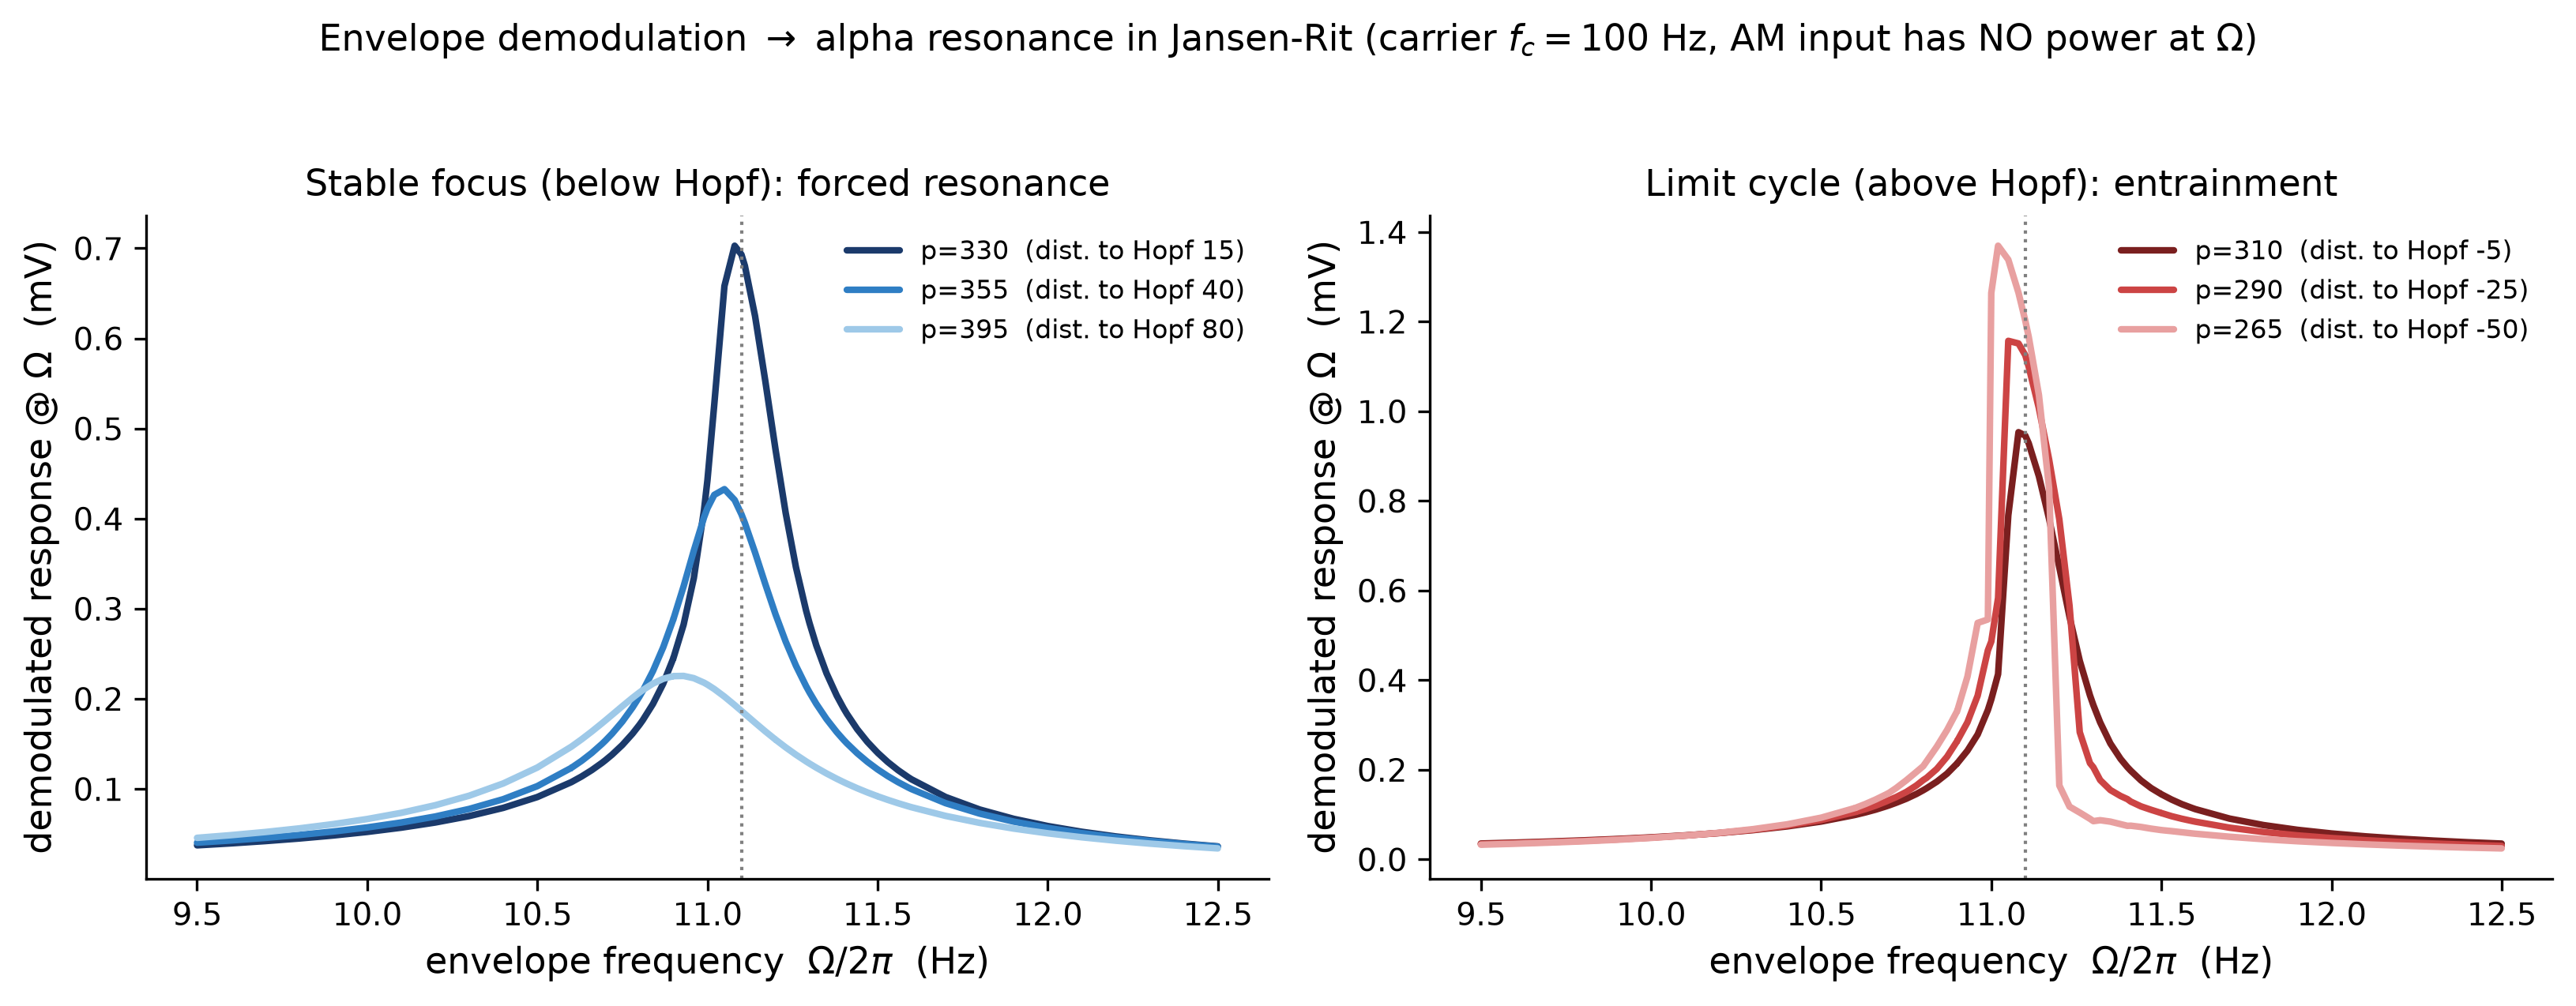
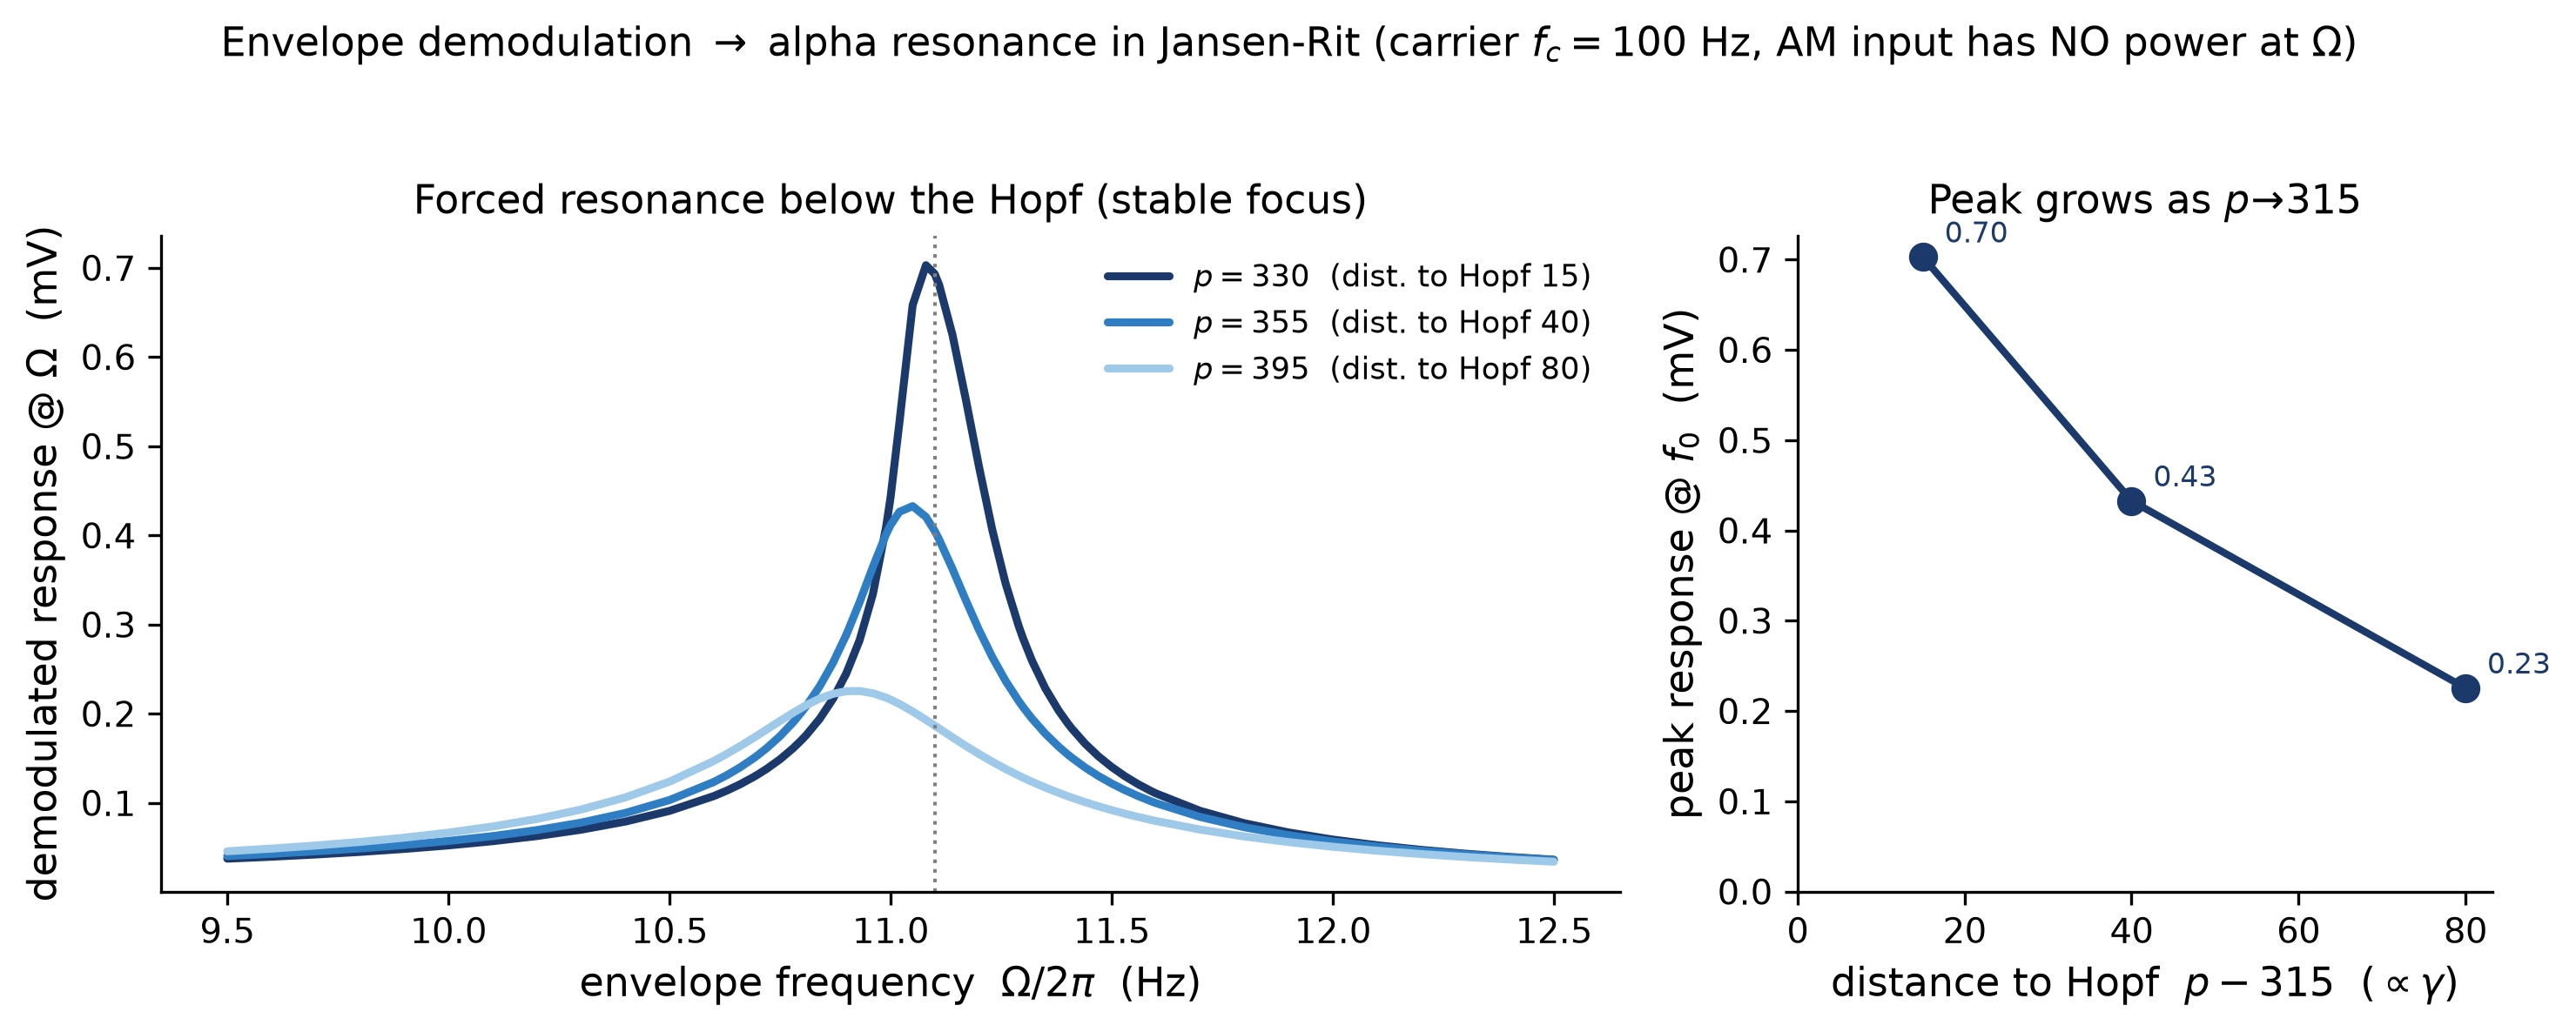
Fig 4 single-regime + Fig 14 intermodulation panel + Landau pass
- Fig 4 (fig:res): drop misleading above-Hopf lock-in panel; single fixed-point
  forced-resonance figure + 1/gamma peak-vs-distance companion. Honest gain story.
- Fig 14 (fig:qif_timing): add panel (b) intermodulation spectrum (TI off/on),
  showing the direct Df line and the f0+Df sum sideband from sigmoid mixing of the
  imposed 42 Hz beat with the intrinsic ~53 Hz gamma. Depth panel -> (c).
- Fig 13 (fig:qif_raster): proper x/y labels + ticks + off/on legend on the beat-fold
  insets; both folds normalized to their mean (relative modulation).
- Text: define "fold" at first use; unify demodulation as the difference-frequency
  intermodulation product (one mixer, cascaded); clarify the negative-Sigma'' regime
  is where the JR resting point sits, not a constraint (mechanism is sign-agnostic).
- DOI added to title block (10.5281/zenodo.20844275).

diff --git a/TN0484_envelope_demodulation.tex b/TN0484_envelope_demodulation.tex
@@ -42,10 +42,10 @@
 a network mechanism for temporal-interference stimulation}\\[10pt]
 \begin{tabular}{@{}ll@{}}
 \textbf{Document:} & TN0484 (Neuroelectrics TN)\,/\,WP0185 (BCOM WP) \\
-\textbf{Author:} & Giulio Ruffini, Borja Mercadal, Raul de Palma, Alex Just, \\ 
-& Ricardo Salvador and Francesca Castaldo \\
+\textbf{Author:} & Giulio Ruffini, Borja Mercadal, and Alex Just \\ 
 \textbf{Affiliation:} & Neuroelectrics\,/\,Starlab\,/\,BCOM \\
 \textbf{Date:} & 2026-06-17 \qquad \textbf{Version:} 0.7 \\
+\textbf{DOI:} & \href{https://doi.org/10.5281/zenodo.20844275}{10.5281/zenodo.20844275} \\
 \end{tabular}\\[4pt]
 {\color{neblue}\rule{\textwidth}{1pt}}
 \end{flushleft}
@@ -346,6 +346,11 @@ so a line appears at exactly the envelope frequency $\Omega$, with amplitude
 In the language of \cite{ruffini2025ham}, the quadratic cross-term
 $\kappa_2\,s_1 s_2$ between a slow and a fast input implements amplitude
 modulation/demodulation and the associated intermodulation lines.
+Demodulation is thus itself an intermodulation product: the line at $\Omega$ is the
+\emph{difference frequency} of the two applied carriers ($\omega_c$ and $\omega_c+\Omega$),
+generated by the same quadratic term that---acting a second time, now on an intrinsic
+rhythm $\omega_0$---produces the $\omega_0\pm\Omega$ sidebands seen at the spiking level
+(Fig.~\ref{fig:qif_timing}b). One nonlinear mixer, applied in cascade.
 Equation~\eqref{eq:demod} carries three predictions, all verified below: the
 recovered amplitude is quadratic in the drive ($A_\Omega\propto\varepsilon^2$,
 square-law detection); it follows the sigmoid curvature
@@ -370,7 +375,9 @@ i.e.\ transfer function $H(\omega)=Aa/(i\omega+a)^2$, an over-damped second-orde
 low-pass with corner $a/2\pi\approx16$~Hz. It passes the $\sim$10~Hz envelope
 ($|H|\!\sim\!0.7$) while suppressing a $100$~Hz carrier to $\sim$2.5\%
 (Fig.~\ref{fig:carrier}, right), so the carrier is filtered out of the loop
-\emph{after} the sigmoid has used it to demodulate.
+\emph{after} the sigmoid has used it to demodulate. 
+Thus, two distinct mechanisms shape the closed-loop dynamics: the sigmoid extracts an envelope whose amplitude is inherently independent of the carrier, and the synaptic low-pass subsequently removes the carrier itself from the spectrum.
+
 
 % fig:carrier moved to Results (Theory is equations-only)
 
@@ -690,8 +697,9 @@ true frequency capture.
 \emph{amplitude} of a persisting rhythm at the beat without capturing its
 frequency---phase--amplitude coupling \cite{canolty2010,tort2010}. We quantify this by
 the $\Delta f$-locked component of the population rate (lock-in of $r_E$ at $\Delta f$,
-equivalently the rate folded on the $\Delta f$ beat phase), which isolates the driven
-envelope from the intrinsic rhythm. The distinction is load-bearing: the same word would
+equivalently the rate \emph{folded} on the $\Delta f$ beat phase---averaged over many beat
+cycles as a function of phase within a single cycle, so that everything not locked to
+$\Delta f$ averages away), which isolates the driven envelope from the intrinsic rhythm. The distinction is load-bearing: the same word would
 otherwise denote a frequency capture (ii) and an amplitude gating (iii) that are
 dynamically different---so we label frequency capture \emph{entrainment} and amplitude
 modulation of a persisting rhythm \emph{gating}, reporting the metric appropriate to each
@@ -739,7 +747,7 @@ the output spectrum absent from the input.
 \begin{figure}[t!]
 \centering
 \includegraphics[width=\textwidth]{fig_demodulation.pdf}
-\caption{\textbf{An alpha rhythm is synthesized from a carrier-only input (Jansen--Rit).} \emph{Top left:} the AM field
+\caption{\textbf{An alpha rhythm is synthesized from a carrier-only input (Jansen--Rit below Hopf).} \emph{Top left:} the AM field
 $s(t)$ and its envelope. \emph{Top right:} the input spectrum has lines only at
 $f_c$ and $f_c\pm\Delta f$ (89, 100, 111~Hz); the alpha band (shaded) is empty.
 \emph{Bottom left:} the output $v=y_1-y_2$ oscillates at the envelope frequency.
@@ -749,22 +757,33 @@ synthesized by the sigmoid and absent from the input.}
 \end{figure}
 
 \subsection{Near the Hopf, the demodulated envelope drives a sharp resonance}
-The resonance is quantified in Figs.~\ref{fig:res} and~\ref{fig:map}. On the stable
-side ($p>315$) the response is a Lorentzian centered at $f_0$ whose height grows
-monotonically as the Hopf is approached ($0.23\!\to\!0.43\!\to\!0.70$~mV), i.e.\
-gain $\propto1/\gamma$; on the limit-cycle side ($p<315$) the demodulated drive
-entrains the autonomous alpha rhythm, with a peak near $f_0$ that deepens into the
-cycle. The two-dimensional map shows the same story as a ridge at $f_0$ that
-sharpens and intensifies toward the bifurcation.
+The resonance is quantified in Figs.~\ref{fig:res} and~\ref{fig:map}. In the
+fixed-point regime ($p>315$, a stable focus) the response is a Lorentzian centered at
+$f_0$ whose height grows monotonically as the Hopf is approached
+($0.23\!\to\!0.43\!\to\!0.70$~mV; Fig.~\ref{fig:res}), i.e.\ gain $\propto1/\gamma$. This
+is genuine forced gain: with no drive the focus is silent at $\Omega$, so all power at
+$\Omega$ is synthesized by the demodulating nonlinearity and amplified by the recurrent
+loop. The two-dimensional map shows the same story as a ridge at $f_0$ that sharpens and
+intensifies toward the bifurcation (Fig.~\ref{fig:map}). Above the Hopf ($p<315$) the
+column free-runs at $f_0$ and the demodulated drive instead phase-locks that autonomous
+alpha within a $1{:}1$ Arnold tongue; because lock-in amplitude at $\Omega$ then conflates
+the driven response with the free-running cycle, we characterize that regime with the
+output frequency $f_{\rm out}$ rather than the lock-in amplitude (Fig.~\ref{fig:entrain}).
 
 \begin{figure}[t!]
 \centering
 \includegraphics[width=\textwidth]{fig_resonance.pdf}
-\caption{\textbf{The recovered envelope drives a resonance that sharpens toward the Hopf (Jansen--Rit).} Lock-in response at
-$\Omega$ vs.\ envelope frequency ($\varepsilon=0.3$~mV). \emph{Left (stable focus,
-$p>315$):} forced resonance at $f_0\!\approx\!11.1$~Hz; the peak grows
-monotonically as $p\!\to\!315$, i.e.\ gain $\propto1/\gamma$. \emph{Right (limit
-cycle, $p<315$):} the demodulated drive entrains the autonomous alpha rhythm.}
+\caption{\textbf{The recovered envelope drives a resonance that sharpens toward the Hopf (Jansen--Rit).}
+Fixed-point regime ($p>315$, stable focus): lock-in response at $\Omega$ vs.\ envelope
+frequency ($\varepsilon=0.3$~mV). \emph{Left:} the demodulated drive forces a Lorentzian
+resonance at $f_0\!\approx\!11.1$~Hz whose peak redshifts slightly as the damping grows
+($\omega_{\rm peak}=\sqrt{\omega_0^2-2\gamma^2}$; $11.08\!\to\!10.93$~Hz across the three
+curves); the response carries no power at $\Omega$ in the absence of drive, so this is
+genuine forced gain. \emph{Right:} the peak height grows monotonically as the Hopf is
+approached ($p\!\to\!315$, distance to Hopf $\to0$), i.e.\ gain $\propto1/\gamma$. The complementary above-Hopf regime, where the demodulated drive
+\emph{entrains} the autonomous alpha within a $1{:}1$ Arnold tongue, is characterized with
+the appropriate observable (output frequency $f_{\rm out}$, not lock-in amplitude) in
+Fig.~\ref{fig:entrain}.}
 \label{fig:res}
 \end{figure}
 
@@ -831,7 +850,12 @@ signed (in-phase) open-loop response tracks $\half\Sig''(v^*)\varepsilon^2 m$
 across the whole range, vanishes at the inflection $v_0$, and reverses sign across
 it---a direct verification that demodulation is the sigmoid-curvature term of
 Eq.~\eqref{eq:demod}. The closed-loop JR operating points (dots) sit on the lobe
-where $\Sig''$ is large and negative.}
+where $\Sig''$ is large and negative---not by design, but because that is where the JR
+resting point lies as the alpha Hopf is approached (the saturating upper flank of the
+sigmoid). The mechanism is sign-agnostic: $\Sig''$ sets only the sign/phase of the
+demodulated response while $|\Sig''|$ sets its gain, so the entire resonance picture is
+unchanged (up to an overall sign) in the $\Sig''>0$ lobe, which this open-loop sweep
+already spans. The sign flip itself is a falsifiable prediction (\S\ref{sec:predictions}).}
 \label{fig:opp}
 \end{figure}
 
@@ -1058,11 +1082,17 @@ into envelope-locked bands (Fig.~\ref{fig:qif_raster}a,b). Above the Hopf (oscil
 free-running gamma is \emph{gated} by the TI beat---forced cross-frequency modulation
 (PAC), not frequency entrainment, since the $\approx$11~Hz detuning lies outside the
 $1{:}1$ tongue: its bursts group into the $\Delta f=42$~Hz envelope while the intrinsic
-$\sim$53~Hz gamma persists (Fig.~\ref{fig:qif_raster}c,d). The spiking network reproduces
+$\sim$53~Hz gamma persists (Fig.~\ref{fig:qif_raster}c,d). Because the two rhythms coexist
+in a nonlinear medium, the sigmoid mixes them into intermodulation sidebands in the
+population rate---most prominently the direct $\Delta f$ line and the sum component near
+$95$~Hz ($53\!+\!42$), with the difference tone near $11$~Hz (the detuning itself); this is
+the spiking-network fingerprint of the same nonlinear frequency mixing that operates at the
+macroscale, and it is the sideband signature of \emph{gating} rather than the frequency
+pulling of entrainment. The spiking network reproduces
 the exact NMM2 mean field (matched gamma spectrum and mean rate,
 Fig.~\ref{fig:qif_timing}a), and across both regimes the mean rate is essentially unchanged
 ($\times1.05$--$1.10$) while the $\Delta f$ modulation depth of the population rate rises
-from near zero to $0.19$--$0.76$ (Fig.~\ref{fig:qif_timing}b): TI realigns timing, not
+from near zero to $0.19$--$0.76$ (Fig.~\ref{fig:qif_timing}c): TI realigns timing, not
 rate---the spiking-level counterpart of \S\ref{sec:timing} and a direct microscale analog
 of the in-vivo spike-timing-without-rate finding \cite{vieira2024} (code:
 \texttt{qif\_raster.py}, \texttt{make\_qif\_figs.py}).
@@ -1093,13 +1123,15 @@ entrainment: the $\sim$11~Hz detuning places the beat outside the $1{:}1$ Arnold
 (contrast the genuine frequency locking of Fig.~\ref{fig:entrain}), so the gamma is
 amplitude-modulated at $\Delta f$ rather than pulled to it---demodulation surviving above
 the Hopf as envelope-to-rhythm coupling. The detuning is what certifies the
-$\Delta f$-locked component as a real driven effect rather than coincidence. \emph{Insets:} \emph{(b)} the population rate folded on the $\Delta f$ beat phase (the
-forced response \emph{is} at $\Delta f$); \emph{(d)} the gamma-band \emph{amplitude}
-folded on the $\Delta f$ phase---taking the amplitude removes the gamma carrier, so the
-near-commensurate $54/42$~Hz gamma cannot contaminate the fold (a raw-rate fold would).
-Both are flat with TI off (gray) and show a clear $\Delta f$-locked modulation with TI
-on (blue), making the envelope-locked timing direct where the raster alone leaves it
-subtle.}
+$\Delta f$-locked component as a real driven effect rather than coincidence.
+\emph{Insets} (each normalized to its own mean, so the $y$-axis reads the relative
+modulation; $x$-axis is the $\Delta f$ beat phase in cycles; TI off gray, on blue):
+\emph{(b)} the population rate folded on the beat phase (the forced response \emph{is} at
+$\Delta f$); \emph{(d)} the gamma-band \emph{amplitude} folded on the beat phase---taking
+the amplitude removes the gamma carrier, so the near-commensurate $53/42$~Hz gamma cannot
+contaminate the fold (a raw-rate fold would). Both are flat with TI off and show a clear
+$\Delta f$-locked modulation with TI on, making the envelope-locked timing direct where the
+raster alone leaves it subtle.}
 \label{fig:qif_raster}
 \end{figure}
 
@@ -1109,13 +1141,21 @@ subtle.}
 \caption{\textbf{Timing, not rate, in the QIF network.} \emph{(a)} Power spectrum of
 $r_E(t)$ in the field-free (autonomous) state: the spiking network ($N=8000$) matches the
 exact NMM2 mean field in the gamma rhythm (both $\sim$53~Hz) and in mean rate
-$\langle r_E\rangle$. \emph{(b)} The $\Delta f$ \emph{modulation depth}
-$A_\Omega/\langle r_E\rangle$---the amplitude of the $\Delta f$-locked rate oscillation
-as a fraction of the mean rate---off vs.\ on: near zero with TI off ($0.01$--$0.03$),
-large with TI on ($0.19$ oscillatory, $0.76$ forced), while the mean rate stays flat
-($\times1.05$--$1.10$). We report the modulation depth rather than the off$\to$on lock-in
-\emph{ratio} because the latter divides by the near-zero field-free baseline and is
-realization-noisy; the depth uses two well-estimated quantities and is stable.}
+$\langle r_E\rangle$. \emph{(b)} Intermodulation in the oscillatory regime (TI off vs.\
+on, log power): with TI on the nonlinearity mixes the imposed $\Delta f=42$~Hz beat with
+the intrinsic $f_0\!\approx\!53$~Hz gamma, lighting up the direct $\Delta f$ line and the
+\emph{sum} sideband $f_0\!+\!\Delta f\!\approx\!95$~Hz, both absent when TI is off (the
+difference tone $f_0\!-\!\Delta f\!\approx\!11$~Hz sits near the floor, its amplitude set by
+the network transfer function rather than the mixer)---the spiking-network view of the same
+sigmoid frequency-mixing that drives demodulation throughout, and the sideband signature of
+gating rather than entrainment. \emph{(c)} The $\Delta f$ \emph{modulation
+depth} $A_\Omega/\langle r_E\rangle$---the amplitude of the $\Delta f$-locked rate
+oscillation as a fraction of the mean rate---off vs.\ on: near zero with TI off
+($0.01$--$0.03$), large with TI on ($0.19$ oscillatory, $0.76$ forced), while the mean rate
+stays flat ($\times1.05$--$1.10$). We report the modulation depth rather than the
+off$\to$on lock-in \emph{ratio} because the latter divides by the near-zero field-free
+baseline and is realization-noisy; the depth uses two well-estimated quantities and is
+stable.}
 \label{fig:qif_timing}
 \end{figure}
 

diff --git a/code/make_qif_figs.py b/code/make_qif_figs.py
@@ -10,6 +10,7 @@ import numpy as np
 import matplotlib
 matplotlib.use("Agg")
 import matplotlib.pyplot as plt
+from matplotlib.ticker import MaxNLocator
 
 HERE = os.path.dirname(os.path.abspath(__file__))
 FIGS = os.environ.get("TN_FIGDIR") or os.path.join(os.path.dirname(HERE), "figures")
@@ -41,7 +42,7 @@ def cycle_avg(re_t, ts, df, nbin=20):
 def gamma_amp_fold(re_t, ts, df, dt, band=(45.0, 70.0), nbin=24, t_start=40.0):
     """Fold the GAMMA-band amplitude envelope of r_E on the Df beat phase (proper PAC).
     Taking the gamma *amplitude* discards the gamma carrier, so the curve is immune to the
-    near-9:7 commensurability of gamma(~54~Hz) and beat(42~Hz) that contaminates a raw r_E
+    near-commensurability of gamma(~53~Hz) and beat(42~Hz) that contaminates a raw r_E
     fold. Flat across beat phase for a free gamma (off); a clear Df-locked bump when the
     beat gates the gamma amplitude (on)."""
     m = ts >= t_start; t = ts[m]; x = re_t[m] - re_t[m].mean()
@@ -66,22 +67,27 @@ def gamma_amp_fold(re_t, ts, df, dt, band=(45.0, 70.0), nbin=24, t_start=40.0):
 def beat_inset(ax, off_key, on_key, mode="rate"):
     """Inset folded on the Df beat phase, TI off (flat) vs on (bump). mode='rate' folds the
     raw r_E (forced case: the response is at Df); mode='gamma' folds the gamma-amplitude
-    envelope (gating case: PAC of the persisting gamma)."""
+    envelope (gating case: PAC of the persisting gamma). Both curves are normalized to their
+    own mean, so the y-axis reads the relative (depth) modulation -- dimensionless and
+    directly comparable to the boxed Df modulation depth."""
     df = conds[on_key]["q"]["df"]; dt = meta["dt"]
-    iax = ax.inset_axes([0.605, 0.57, 0.375, 0.40])
-    for k, col in ((off_key, GR), (on_key, NEBLUE)):
+    iax = ax.inset_axes([0.605, 0.55, 0.375, 0.42])
+    for k, col, lab in ((off_key, GR, "off"), (on_key, NEBLUE, "on")):
         q = conds[k]["q"]
         if mode == "gamma":
             ctr, ca = gamma_amp_fold(q["re_t"], q["ts"], df, dt)
-            ca = ca / ca.mean()                              # normalize: compare modulation depth, not level
         else:
             ctr, ca = cycle_avg(q["re_t"], q["ts"], df)
-        iax.plot(np.r_[ctr, ctr + 1], np.r_[ca, ca], color=col, lw=1.4)
-    iax.set_xticks([0, 1, 2]); iax.set_xticklabels([]); iax.set_yticks([])
-    iax.tick_params(length=2)
-    title = r"$\gamma$ amp.\ vs $\Delta f$ phase" if mode == "gamma" else r"$r_E$ folded on $\Delta f$"
-    iax.set_title(title, fontsize=6.2, pad=2)
-    iax.set_xlabel("beat phase (off: gray, on: blue)", fontsize=5.6, labelpad=1)
+        ca = ca / ca.mean()                                  # normalize -> relative modulation
+        iax.plot(np.r_[ctr, ctr + 1], np.r_[ca, ca], color=col, lw=1.4, label=lab)
+    iax.set_xticks([0, 1, 2]); iax.set_xticklabels(["0", "1", "2"])
+    iax.set_xlabel(r"$\Delta f$ phase (cycles)", fontsize=6.0, labelpad=1)
+    ylab = r"$\gamma$ amp. (norm.)" if mode == "gamma" else r"$r_E$ (norm.)"
+    iax.set_ylabel(ylab, fontsize=6.0, labelpad=1)
+    iax.yaxis.set_major_locator(MaxNLocator(3))
+    iax.tick_params(length=2, pad=1, labelsize=5.4)
+    iax.legend(fontsize=5.2, frameon=False, loc="upper right", ncol=2,
+               handlelength=0.9, columnspacing=0.8, handletextpad=0.4, borderpad=0.1)
     iax.patch.set_alpha(0.92)
     return iax
 
@@ -145,8 +151,16 @@ def fig_raster():
     plt.close(fig)
 
 
+def _rate_spectrum(re_t, ts, dt, t_start=60.0):
+    """Hann-windowed power spectrum of r_E(t) over the post-settle tail."""
+    m = ts >= t_start; x = re_t[m] - re_t[m].mean()
+    f = np.fft.rfftfreq(len(x), dt / 1000.0)
+    P = np.abs(np.fft.rfft(x * np.hanning(len(x)))) ** 2
+    return f, P / P.max()
+
+
 def fig_timing():
-    fig, (axA, axB) = plt.subplots(1, 2, figsize=(10, 3.8))
+    fig, (axA, axC, axB) = plt.subplots(1, 3, figsize=(13.6, 3.7))
     # (a) validation: power spectrum of r_E(t), QIF network vs exact NMM2 mean field.
     # Use the field-free autonomous gamma (entrain_off): a single clean peak in both, so the
     # QIF<->NMM2 match is unambiguous. (Under strong TI forcing the forced spectrum is multi-
@@ -165,7 +179,28 @@ def fig_timing():
     axA.legend(fontsize=7.5, frameon=False, loc="upper right")
     axA.spines[["top", "right"]].set_visible(False)
 
-    # (b) Df modulation depth = AC(Df)/<r_E> -- a STABLE off->on metric: the amplitude
+    # (b) intermodulation: oscillatory regime, TI off vs on. The nonlinearity mixes the
+    # imposed Df=42 Hz beat with the intrinsic ~53 Hz gamma -> sidebands. TI-on lights up
+    # the direct Df line (42) and the SUM 53+42=95; the difference 53-42=11 is weak. This is
+    # the spiking-network view of the macroscale frequency mixing (sideband = gating).
+    dfb = conds["entrain_on"]["q"]["df"]; fg = 53.0
+    for key, col, lab in (("entrain_off", GR, "TI off"), ("entrain_on", NEBLUE, "TI on")):
+        qq = conds[key]["q"]; fS, PS = _rate_spectrum(qq["re_t"], qq["ts"], dt)
+        axC.semilogy(fS, PS, color=col, lw=1.2, label=lab)
+    # Mark only the lines the figure can stand behind: the direct Df line and the SUM
+    # sideband. The difference tone f0-Df sits at the noise floor (its small amplitude is
+    # set by the network transfer function, not the mixer), so we do not flag it.
+    for fr, txt in ((dfb, r"$\Delta f$"), (fg, r"$f_0$"), (fg + dfb, r"$f_0{+}\Delta f$")):
+        axC.axvline(fr, ls=":", color=NERED, lw=0.8, alpha=0.7)
+        axC.text(fr, 1.5, txt, rotation=90, fontsize=7, color=NERED, ha="right", va="bottom")
+    axC.set_xlim(0, 120); axC.set_ylim(1e-4, 4)
+    axC.set_xlabel("frequency (Hz)"); axC.set_ylabel("power of $r_E$ (norm.)")
+    axC.set_title("(b) Oscillatory: nonlinear mixing of\n"
+                  r"$\Delta f$ and $f_0$ $\to$ intermodulation sidebands", fontsize=9)
+    axC.legend(fontsize=7.5, frameon=False, loc="lower right")
+    axC.spines[["top", "right"]].set_visible(False)
+
+    # (c) Df modulation depth = AC(Df)/<r_E> -- a STABLE off->on metric: the amplitude
     # of the Df-locked rate oscillation as a fraction of the mean rate. Both quantities
     # are well-estimated, unlike the off/on lock-in RATIO whose denominator sits at the
     # near-zero noise floor (and so is realization-noisy). Mean rate flatness shown as text.
@@ -187,7 +222,7 @@ def fig_timing():
              % (rate_fc[0], rate_fc[1]), transform=axB.transAxes, ha="center", fontsize=8, color=GR)
     axB.set_xticks(x); axB.set_xticklabels([n for _, n in regimes])
     axB.set_ylabel(r"$\Delta f$ modulation depth  ($A_\Omega/\langle r_E\rangle$)")
-    axB.set_title("(b) TI imposes $\\Delta f$-locked timing, not rate", fontsize=9)
+    axB.set_title("(c) TI imposes $\\Delta f$-locked timing, not rate", fontsize=9)
     axB.legend(fontsize=7.5, frameon=False, loc="upper left")
     axB.set_ylim(0, max(depth_on) * 1.18)
     axB.spines[["top", "right"]].set_visible(False)

diff --git a/code/rerun_resonance.py b/code/rerun_resonance.py
@@ -31,25 +31,40 @@ elif mode=="cycle":
 elif mode=="plot":
     import matplotlib; matplotlib.use("Agg"); import matplotlib.pyplot as plt
     import figstyle; figstyle.apply()
-    S=np.load("sweep_hi_stable.npz"); C=np.load("sweep_hi_cycle.npz")
-    f=S["f_om"]; rs=S["rs"]; rc=C["rc"]; ps=S["p"]; pc=C["p"]
-    NEB="#1b3a6b"; cols=["#1b3a6b","#2f7ec4","#9ec9e8"]; cols2=["#7a1f1f","#c44","#e8a0a0"]
-    fig,ax=plt.subplots(1,2,figsize=(11,4.3))
+    S=np.load("sweep_hi_stable.npz")
+    f=S["f_om"]; rs=S["rs"]; ps=S["p"]
+    cols=["#1b3a6b","#2f7ec4","#9ec9e8"]
+    # Single panel: the fixed-point (stable-focus) regime. The demodulated drive
+    # forces a Lorentzian at f0 whose height grows as the Hopf is approached
+    # (gain ~ 1/gamma). The above-Hopf / entrainment story is told with the
+    # correct observable (f_out, Arnold tongue) in fig_entrainment.
+    fig,ax=plt.subplots(1,2,figsize=(10.0,4.0),
+                        gridspec_kw={"width_ratios":[2.1,1.0]})
+    peaks=np.array([rs[i].max() for i in range(len(ps))])
+    dist =ps-315.0                               # distance from Hopf (>0, stable side) ~ gamma
     for i,p in enumerate(ps):
-        ax[0].plot(f,rs[i],color=cols[i],lw=2,label=f"p={p:.0f}  (dist. to Hopf {p-315:.0f})")
-    ax[0].set_title("Stable focus (below Hopf): forced resonance",fontsize=11)
-    for i,p in enumerate(pc):
-        ax[1].plot(f,rc[i],color=cols2[i],lw=2,label=f"p={p:.0f}  (dist. to Hopf {p-315:.0f})")
-    ax[1].set_title("Limit cycle (above Hopf): entrainment",fontsize=11)
-    for a in ax:
-        a.axvline(F0,ls=":",c="0.5",lw=1); a.set_xlabel("envelope frequency  $\\Omega/2\\pi$  (Hz)")
-        a.set_ylabel("demodulated response @ $\\Omega$  (mV)")
-        a.legend(fontsize=8,frameon=False); a.spines[["top","right"]].set_visible(False)
+        ax[0].plot(f,rs[i],color=cols[i],lw=2.2,
+                   label=f"$p={p:.0f}$  (dist. to Hopf {p-315:.0f})")
+    ax[0].axvline(F0,ls=":",c="0.5",lw=1)
+    ax[0].set_xlabel("envelope frequency  $\\Omega/2\\pi$  (Hz)")
+    ax[0].set_ylabel("demodulated response @ $\\Omega$  (mV)")
+    ax[0].set_title("Forced resonance below the Hopf (stable focus)",fontsize=11)
+    ax[0].legend(fontsize=8.5,frameon=False)
+    ax[0].spines[["top","right"]].set_visible(False)
+    # companion: peak height vs distance to Hopf -- the 1/gamma growth
+    ax[1].plot(dist,peaks,"o-",color="#1b3a6b",lw=2,ms=7)
+    for d,pk in zip(dist,peaks):
+        ax[1].annotate(f"{pk:.2f}",(d,pk),textcoords="offset points",
+                       xytext=(6,4),fontsize=8,color="#1b3a6b")
+    ax[1].set_xlabel("distance to Hopf  $p-315$  ($\\propto\\gamma$)")
+    ax[1].set_ylabel("peak response @ $f_0$  (mV)")
+    ax[1].set_title("Peak grows as $p\\!\\to\\!315$",fontsize=11)
+    ax[1].spines[["top","right"]].set_visible(False)
+    ax[1].set_xlim(0,None); ax[1].set_ylim(0,None)
     fig.suptitle("Envelope demodulation $\\rightarrow$ alpha resonance in Jansen-Rit "
                  "(carrier $f_c=100$ Hz, AM input has NO power at $\\Omega$)",fontsize=11)
     fig.tight_layout(rect=[0,0,1,0.95])
     fig.savefig(f"{FIGS}/fig_resonance.png",dpi=300)
     fig.savefig(f"{FIGS}/fig_resonance.pdf")
     print("STABLE peaks:", [f"{rs[i].max():.3f}" for i in range(len(ps))])
-    print("CYCLE  peaks:", [f"{rc[i].max():.3f}" for i in range(len(pc))])
-    print("wrote fig_resonance")
+    print("wrote fig_resonance (single regime: stable focus)")